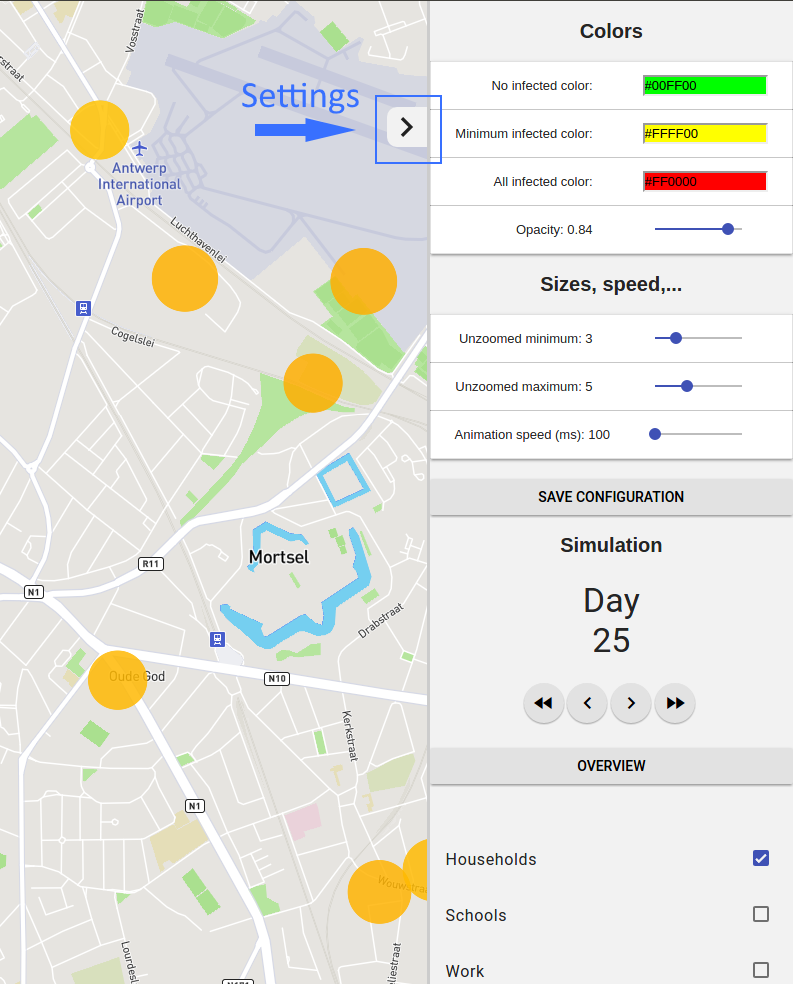
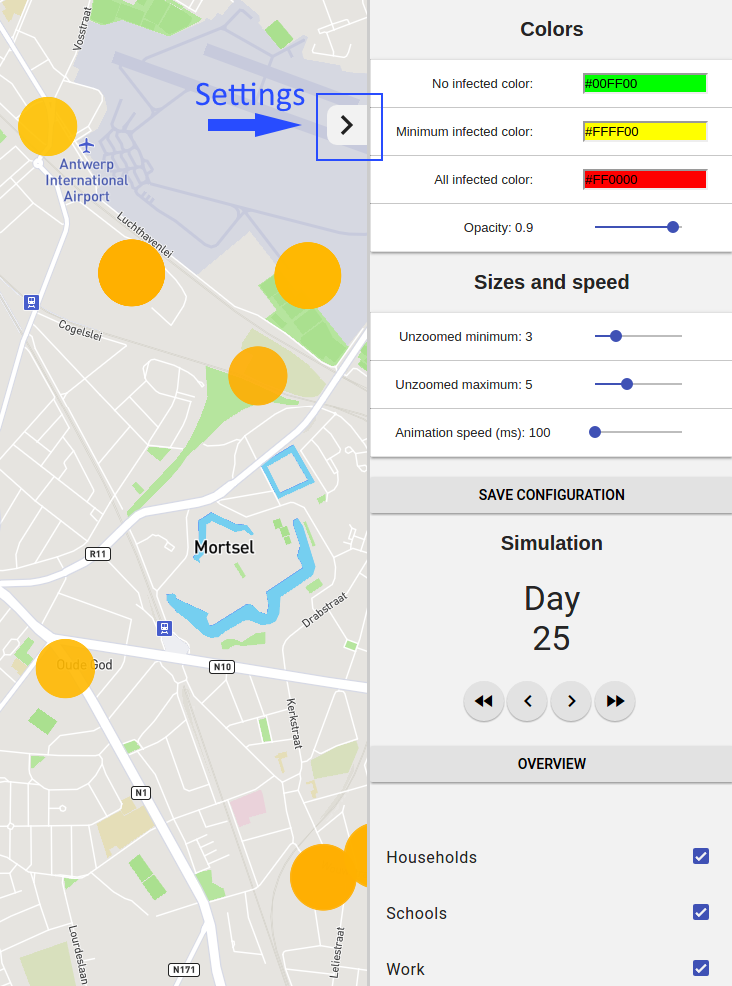
Updated image for doc

diff --git a/src/main/electron/index.html b/src/main/electron/index.html
@@ -64,7 +64,7 @@
 			</tr>
 		</tbody>
 	</table>
-	<div class="settingTitle">Sizes, speed,...</div>
+	<div class="settingTitle">Sizes and speed</div>
 	<table class="mdl-data-table mdl-js-data-tabl mdl-shadow--2dp">
 		<thead class="nonexistent">
 			<tr class="nonexistent">

diff --git a/src/doc/user_man/visualization.rst b/src/doc/user_man/visualization.rst
@@ -50,6 +50,14 @@ The first thing you see, when running the tool, is a world map. On this map
 you can see several circles, which represent the clusters saved by the simulator.
 
 The color of the circles represents the percentage of infected people in the cluster.
+The following color values are used by default:
+
+-  Green: No people are infected in this cluster.
+
+-  Yellow: A low percentage of people are infected in this cluster.
+
+-  Red: A high percentage of people are infected in this cluster.
+
 
 Hovering over a cluster displays some useful information, namely the cluster size,
 the infected count, the cluster ID and its coordinates.
